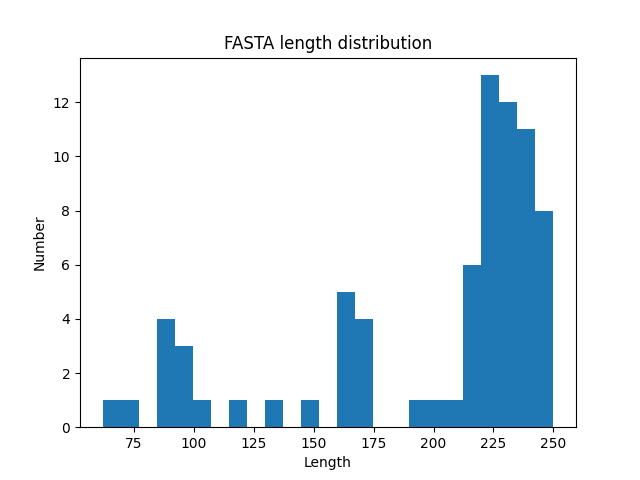
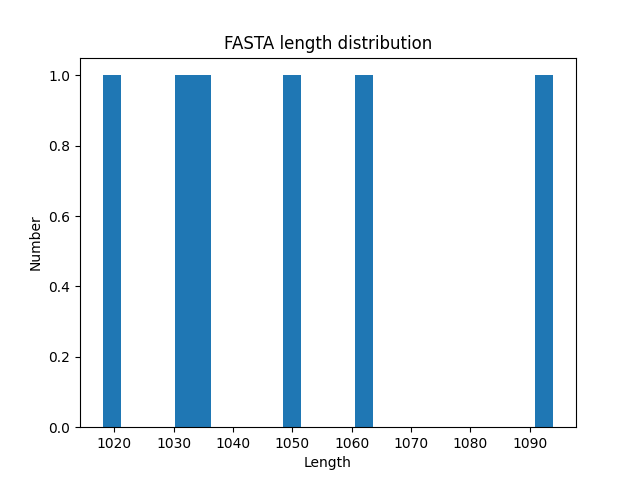
I have upgraded Task2 and add picture of Task3

diff --git a/Task2.py b/Task2.py
@@ -1,24 +1,28 @@
-import sys
 import matplotlib.pyplot as plt
 
 
 def file_len(fname):
     with open(fname) as f:
-        for i, l in enumerate(f):
-            pass
-    return i + 1
+        length = 0
+        for i in f:
+            length += 1
+    return length
 
 
 line_lengths = []
-file_name = sys.argv[1]
+file_name = '/Users/Zamalutdinov/Desktop/test.fasta'
 file_lines = file_len(file_name)
+full_line = []
 with open(file_name) as file:
-    for k in range(file_lines//2):
-        file.readline()
+    for k in range(file_lines):
         line = file.readline().strip()
-        line_lengths.append(len(line))
+        if line[0] == '>':
+            line_lengths.append(len(full_line))
+            full_line = []
+        else:
+            full_line += line
 
-plt.hist(line_lengths, bins=25)
+plt.hist(line_lengths[1: len(line_lengths)], bins=25)
 plt.title('FASTA length distribution')
 plt.ylabel('Number')
 plt.xlabel('Length')
